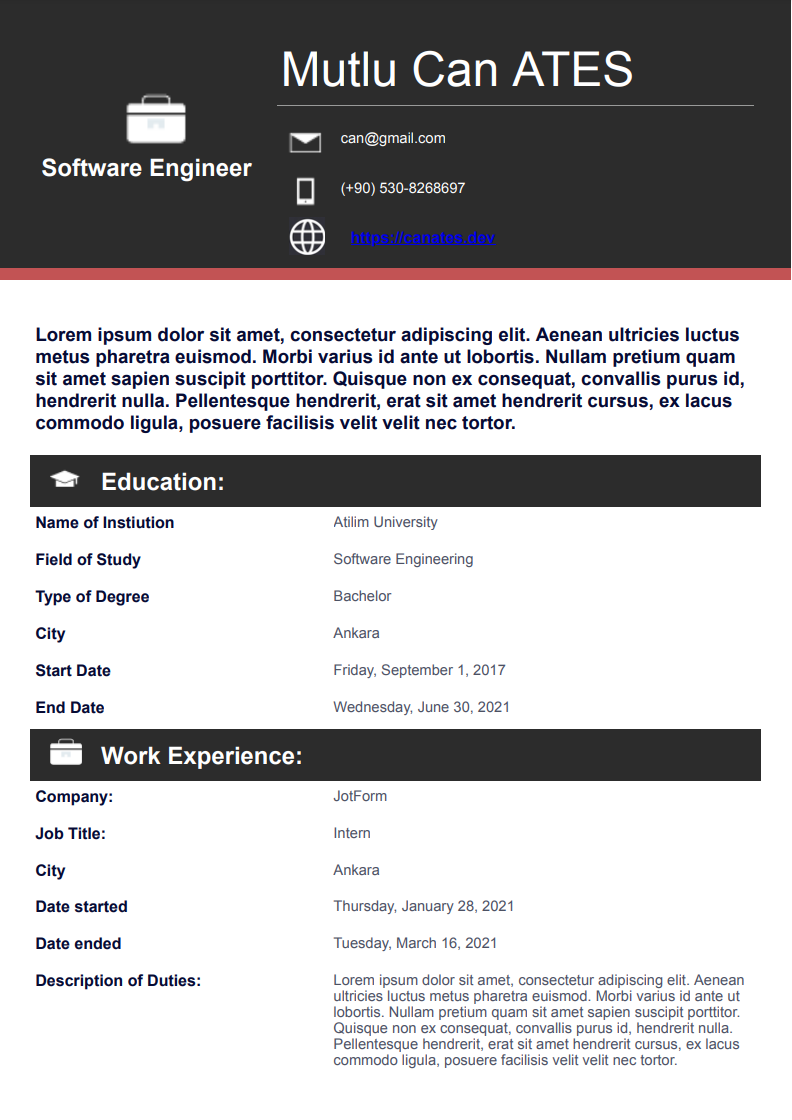
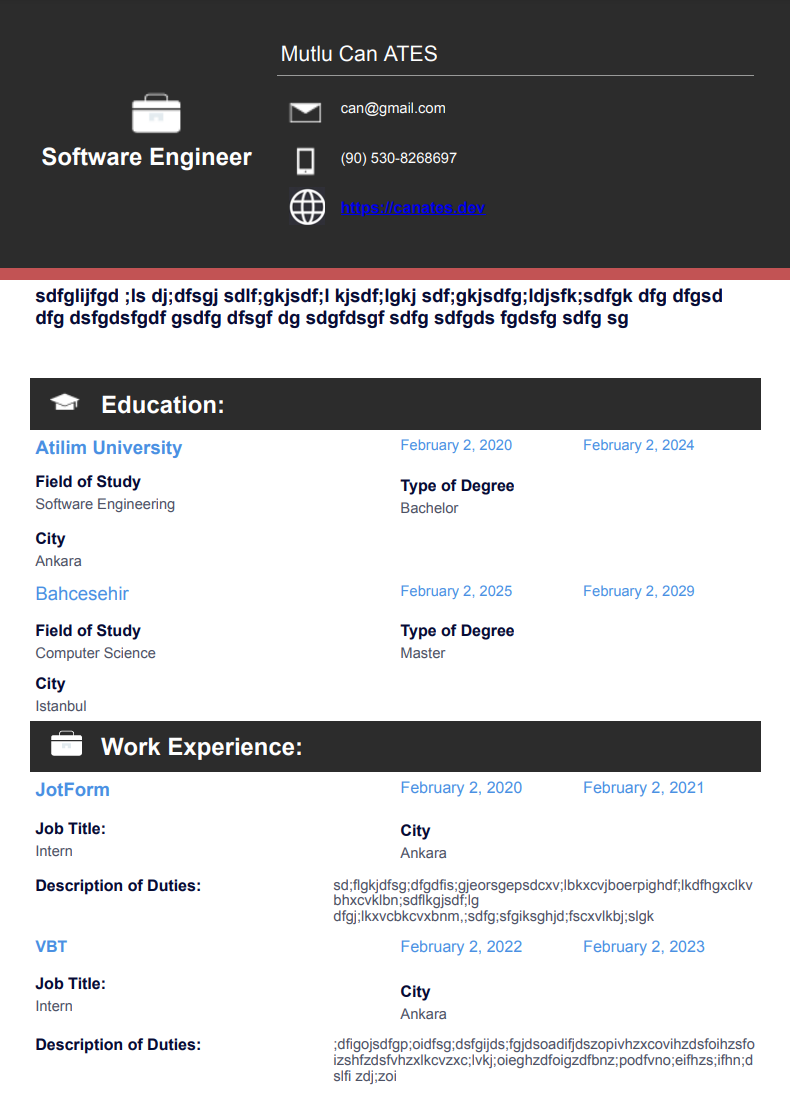
new templates

Changed region(s): [[0.0304, 0.0304, 0.9722, 0.9732], [0.0304, 0.0608, 0.3342, 0.1825], [0.7291, 0.517, 0.881, 0.5474]]

diff --git a/src/api/index.ts b/src/api/index.ts
@@ -16,17 +16,18 @@ const downloadPDF = async (formInfo: formInfo) => {
 
 	if (data) {
 		//DOWNLOAD PDF
-		if (formInfo.reportId === "10210605129192045") {
+		console.log(formInfo.reportId)
+		// if (formInfo.reportId === '10210706283850049') {
+		// 	window.location.href = `https://files.jotform.com/jotformpdfs/canates.dev/210605532361041/${
+		// 		formInfo.submissionId
+		// 	}/${encodeURIComponent(
+		// 		formInfo.firstName.trimStart().trimEnd().replace(/ +/g, "-")
+		// 	)}-${encodeURIComponent(
+		// 		formInfo.lastName.trimStart().trimEnd().replace(/ +/g, "-")
+		// 	)}.pdf?ufs=jotformpdfs`;
+		// } else {
 			window.location.href = `https://files.jotform.com/jotformpdfs/canates.dev/210605532361041/${formInfo.submissionId}/${formInfo.submissionId}.pdf?ufs=jotformpdfs`;
-		} else {
-			window.location.href = `https://files.jotform.com/jotformpdfs/canates.dev/210605532361041/${
-				formInfo.submissionId
-			}/${encodeURIComponent(
-				formInfo.firstName.trimStart().trimEnd().replace(/ +/g, "-")
-			)}-${encodeURIComponent(
-				formInfo.lastName.trimStart().trimEnd().replace(/ +/g, "-")
-			)}.pdf?ufs=jotformpdfs`;
-		}
+		// }
 	}
 
 	//`https://files.jotform.com/jotformpdfs/canates.dev/210605532361041/${formInfo.submissionId}/${formInfo.firstName}-${formInfo.lastName}.pdf`;

diff --git a/src/components/Templates.tsx b/src/components/Templates.tsx
@@ -3,6 +3,9 @@ import Template from "./Template";
 
 import Template1 from "../images/Template1.png";
 import Template2 from "../images/Template2.png";
+import Template3 from "../images/Template3.png";
+import Template4 from "../images/Template4.png";
+import Template5 from "../images/Template5.png";
 
 import Grid from "@material-ui/core/Grid";
 
@@ -15,6 +18,19 @@ const templates = [
 		reportId: "10210605735661049",
 		img: Template2,
 	},
+	{
+		reportId: '10210701398941052',
+		img: Template3
+	},
+	{
+		reportId: '10210705264996058',
+		img: Template4
+	},
+	{
+		reportId: '10210706283850049',
+		img: Template5
+	}
+	
 ];
 
 //https://api.jotform.com/generatePDF?type=PDFv2&formid=210605532361041
@@ -22,7 +38,7 @@ const templates = [
 
 const Templates: React.FunctionComponent = () => {
 	return (
-		<Grid container direction='row' spacing={5}>
+		<Grid container direction='row' justify='space-evenly' spacing={5} >
 			{templates.map(template => {
 				return (
 					<Grid item key={template.img}>

diff --git a/src/components/Home.tsx b/src/components/Home.tsx
@@ -12,15 +12,19 @@ const Home = () => {
 			container
 			direction='column'
 			alignItems='center'
-			justify='space-evenly'
+			justify="center"
+			spacing={9}
+			style={{
+				margin: 0
+			}}
 		>
-			<Grid item>
+			<Grid item >
 				<Header />
 			</Grid>
 			<Grid item>
 				<Typography variant='h3'>Choose a template</Typography>
 			</Grid>
-			<Grid item>
+			<Grid item >
 				<Templates />
 			</Grid>
 		</Grid>

diff --git a/src/components/Education.tsx b/src/components/Education.tsx
@@ -59,13 +59,13 @@ const Profile: React.FunctionComponent<Props> = ({
 					}}
 				/>
 			</MuiAccordionSummary>
-			<Divider />
+			
 			{Array.from({ length: panelCount }).map((_, i) => (
 				<MuiAccordion
 					style={{
 						padding: "0 1em",
 						marginTop: "1em",
-						backgroundColor: "#C4DDFD",
+						backgroundColor: "#d1ddec",
 					}}
 					//@ts-ignore
 					onChange={handleAccordion(i)}

diff --git a/src/components/WorkExperince.tsx b/src/components/WorkExperince.tsx
@@ -61,13 +61,13 @@ const Profile: React.FunctionComponent<Props> = ({
 					}}
 				/>
 			</MuiAccordionSummary>
-			<Divider />
+			
 			{Array.from({ length: panelCount }).map((_, i) => (
 				<MuiAccordion
 					style={{
 						padding: "0 1em",
 						marginTop: "1em",
-						backgroundColor: "#C4DDFD",
+						backgroundColor: "#d1ddec",
 					}}
 					//@ts-ignore
 					onChange={handleAccordion(i)}

diff --git a/src/components/Template.tsx b/src/components/Template.tsx
@@ -19,7 +19,7 @@ const useStyles = makeStyles((theme: Theme) =>
 	createStyles({
 		card: {
 			width: "100%",
-			maxWidth: 250,
+			maxWidth: 200,
 			padding: "0.5em",
 			background: "rgba(255, 255, 255, 0.1)",
 			boxShadow: "0 8px 32px 0 rgba( 31, 38, 135, 0.5 )",
